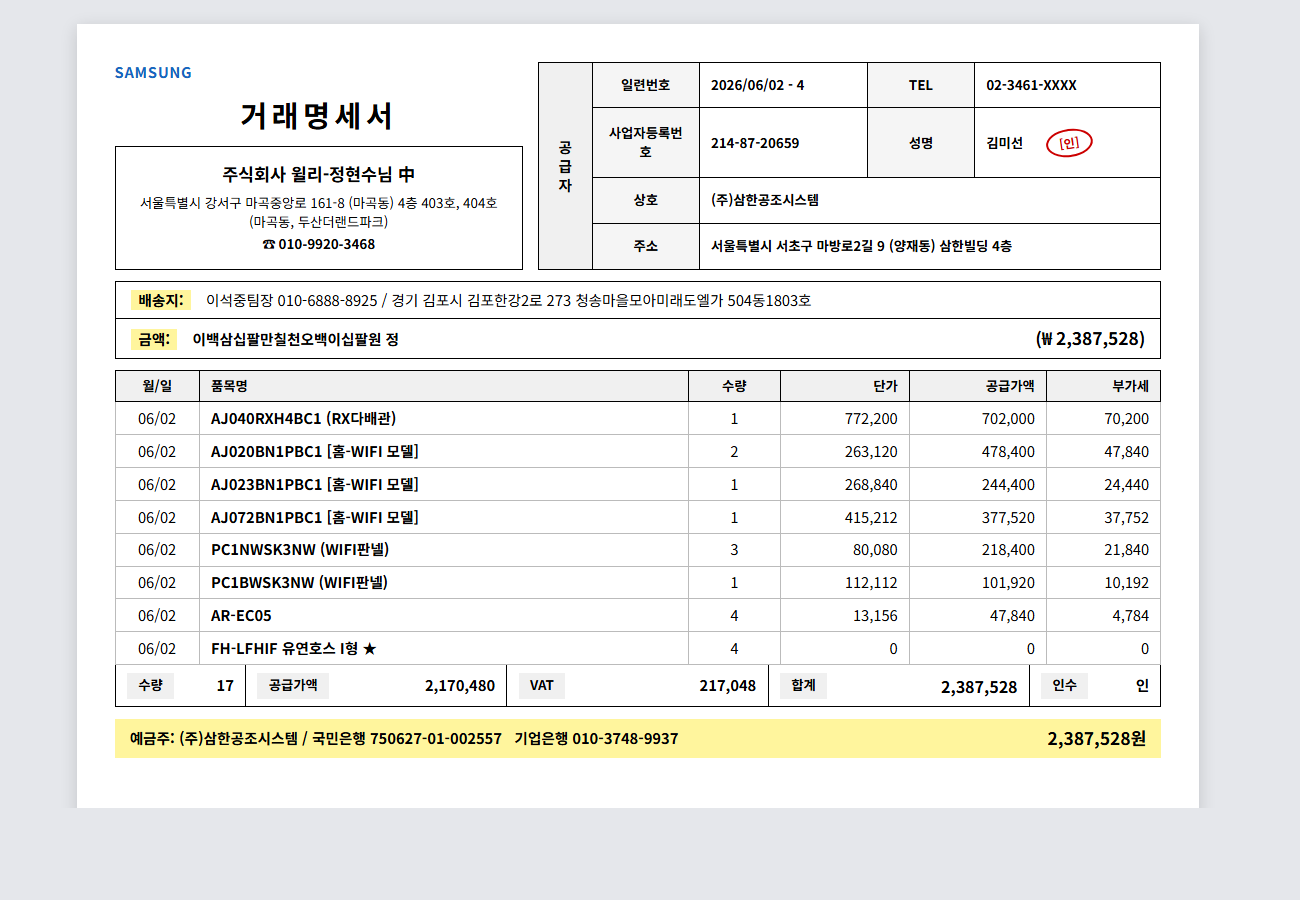
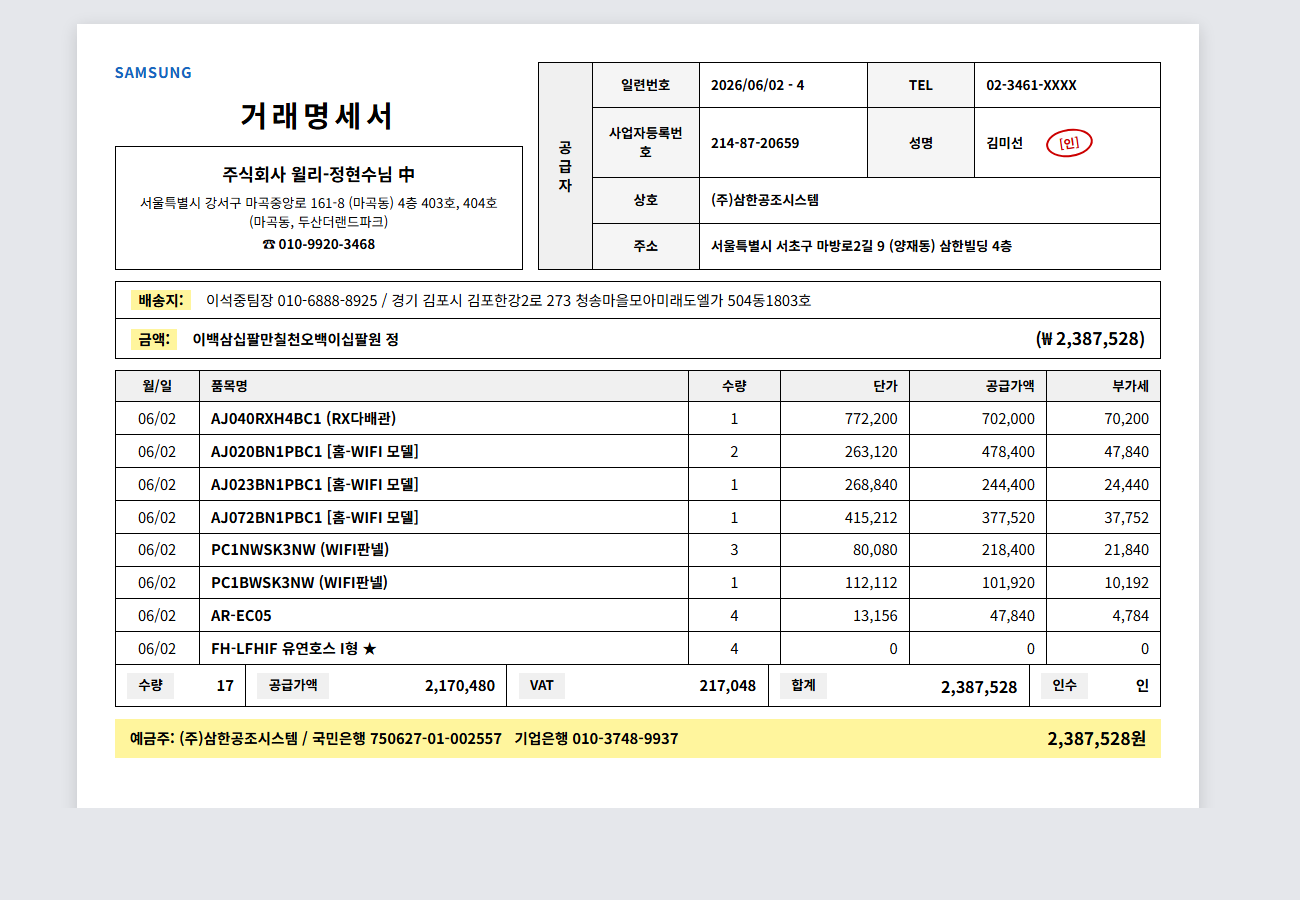
fix(print): 표 선 검은색 + 정보 박스 데이터 가운데 + 결재란 높이 정렬 (개발책임자 회신)
작업지시서 (DispatchView):
- 라인 표 가로/세로 구분선 회색(#BBB) → 검은색(#000)
- 연락처/특이사항 박스: 라벨은 좌측 그대로, 우측 데이터 영역 가운데 정렬
  (.dispatch-info-box .content { flex: 1; text-align: center; })
- 결재란 5칸 높이: 고정 14mm 제거 → grid stretch 로 거래처명 박스 높이와 자동 매칭

거래명세서 (InvoiceView):
- 라인 표 가로/세로 구분선 회색(#BBB) → 검은색(#000)

산출:
- clients/desktop/src/renderer/styles/global.css — dispatch/invoice 표 border + info-box content 정렬 + dispatch-roles height 제거
- docs/qa/sales-polish-2-slice/mocks/12_dispatch_hotfix_v3.html — mock 동기화
- docs/qa/sales-polish-2-slice/mocks/13_invoice_hotfix_v3.html — mock 동기화
- docs/qa/sales-polish-2-slice/screenshots/12_dispatch_hotfix_v3.png — 재캡처
- docs/qa/sales-polish-2-slice/screenshots/13_invoice_hotfix_v3.png — 재캡처

JSX 변경 없음 — CSS only.

diff --git a/docs/qa/sales-polish-2-slice/mocks/12_dispatch_hotfix_v3.html b/docs/qa/sales-polish-2-slice/mocks/12_dispatch_hotfix_v3.html
@@ -21,8 +21,8 @@ body { background: #E5E7EB; padding: 24px; margin: 0; font-family: 'Pretendard',
   font-size: 22pt; font-weight: 700; padding: 6mm 4mm;
   border: 1px solid #000; text-align: center;
 }
-.dispatch-roles { display: grid; grid-template-columns: repeat(5, 1fr); border: 1px solid #000; height: 14mm; }
-.dispatch-role-cell { display: flex; flex-direction: column; border-right: 1px solid #000; }
+.dispatch-roles { display: grid; grid-template-columns: repeat(5, 1fr); border: 1px solid #000; }
+.dispatch-role-cell { display: flex; flex-direction: column; border-right: 1px solid #000; min-height: 0; }
 .dispatch-role-cell:last-child { border-right: none; }
 .dispatch-role-label {
   background: #F5F5F5; border-bottom: 1px solid #000; font-size: 7pt;
@@ -50,7 +50,7 @@ body { background: #E5E7EB; padding: 24px; margin: 0; font-family: 'Pretendard',
 
 /* 라인 표 — 가로 + 세로 구분선 모두 */
 .dispatch-table { width: 100%; border-collapse: collapse; margin-top: 0; border: 1px solid #000; font-size: 11pt; }
-.dispatch-table th, .dispatch-table td { border: 1px solid #BBB; padding: 2mm 3mm; vertical-align: middle; }
+.dispatch-table th, .dispatch-table td { border: 1px solid #000; padding: 2mm 3mm; vertical-align: middle; }
 .dispatch-table thead th {
   background: #F0F0F0; font-weight: 700; text-align: center; font-size: 11pt; border: 1px solid #000;
 }
@@ -73,8 +73,8 @@ body { background: #E5E7EB; padding: 24px; margin: 0; font-family: 'Pretendard',
   border: 1px solid #000; padding: 3mm 4mm; margin-bottom: 2mm;
   display: flex; align-items: baseline; gap: 6mm;
 }
-.dispatch-info-box .label { font-size: 13pt; font-weight: 700; min-width: 18mm; }
-.dispatch-info-box .content { font-size: 14pt; font-weight: 600; }
+.dispatch-info-box .label { font-size: 13pt; font-weight: 700; min-width: 18mm; flex-shrink: 0; }
+.dispatch-info-box .content { flex: 1; font-size: 14pt; font-weight: 600; text-align: center; }
 
 .dispatch-driver-call-notice { text-align: center; font-size: 12pt; font-weight: 600; margin: 4mm 0 2mm 0; }
 .dispatch-confirm-notice {

diff --git a/clients/desktop/src/renderer/styles/global.css b/clients/desktop/src/renderer/styles/global.css
@@ -675,7 +675,7 @@ button {
   font-size: 13pt;
 }
 
-/* 라인 표 6-col (월/일|품목명|수량|단가|공급가액|부가세) — 가로 + 세로 구분선 모두 */
+/* 라인 표 6-col (월/일|품목명|수량|단가|공급가액|부가세) — 가로 + 세로 구분선 모두 (검은색) */
 .invoice-table {
   width: 100%;
   border-collapse: collapse;
@@ -685,7 +685,7 @@ button {
 
 .invoice-table th,
 .invoice-table td {
-  border: 1px solid #BBB;
+  border: 1px solid #000;
   padding: 1.5mm 3mm;
   vertical-align: middle;
 }
@@ -830,13 +830,14 @@ button {
   display: grid;
   grid-template-columns: repeat(5, 1fr);
   border: 1px solid #000;
-  height: 14mm;
+  /* 거래처명 박스 높이와 맞추기 위해 grid stretch 사용 — height 고정 제거 */
 }
 
 .dispatch-role-cell {
   display: flex;
   flex-direction: column;
   border-right: 1px solid #000;
+  min-height: 0;
 }
 
 .dispatch-role-cell:last-child {
@@ -905,7 +906,7 @@ button {
   padding: 2mm 6mm;
 }
 
-/* 라인 표 4-col (모델명/품목명/규격/수량) — 가로 + 세로 구분선 모두 */
+/* 라인 표 4-col (모델명/품목명/규격/수량) — 가로 + 세로 구분선 모두 (검은색) */
 .dispatch-table {
   width: 100%;
   border-collapse: collapse;
@@ -916,7 +917,7 @@ button {
 
 .dispatch-table th,
 .dispatch-table td {
-  border: 1px solid #BBB;
+  border: 1px solid #000;
   padding: 2mm 3mm;
   vertical-align: middle;
 }
@@ -973,11 +974,15 @@ button {
   font-size: 13pt;
   font-weight: 700;
   min-width: 18mm;
+  flex-shrink: 0;
 }
 
+/* 라벨은 좌측 정렬 유지, 데이터는 우측 영역에서 가운데 정렬 (사용자 명시) */
 .dispatch-info-box .content {
+  flex: 1;
   font-size: 14pt;
   font-weight: 600;
+  text-align: center;
 }
 
 .dispatch-driver-call-notice {

diff --git a/docs/qa/sales-polish-2-slice/mocks/13_invoice_hotfix_v3.html b/docs/qa/sales-polish-2-slice/mocks/13_invoice_hotfix_v3.html
@@ -48,9 +48,9 @@ body { background: #E5E7EB; padding: 24px; margin: 0; font-family: 'Pretendard',
 .invoice-amount-row .korean { font-weight: 600; }
 .invoice-amount-row .number { margin-left: auto; font-weight: 700; font-size: 13pt; }
 
-/* 가로 + 세로 구분선 모두 */
+/* 가로 + 세로 구분선 모두 (검은색) */
 .invoice-table { width: 100%; border-collapse: collapse; border: 1px solid #000; font-size: 11pt; }
-.invoice-table th, .invoice-table td { border: 1px solid #BBB; padding: 1.5mm 3mm; vertical-align: middle; }
+.invoice-table th, .invoice-table td { border: 1px solid #000; padding: 1.5mm 3mm; vertical-align: middle; }
 .invoice-table thead th { background: #F0F0F0; font-weight: 700; text-align: center; border: 1px solid #000; font-size: 10pt; }
 .invoice-table .col-date    { width: 16mm; text-align: center; }
 .invoice-table .col-product { text-align: left; font-weight: 600; }
